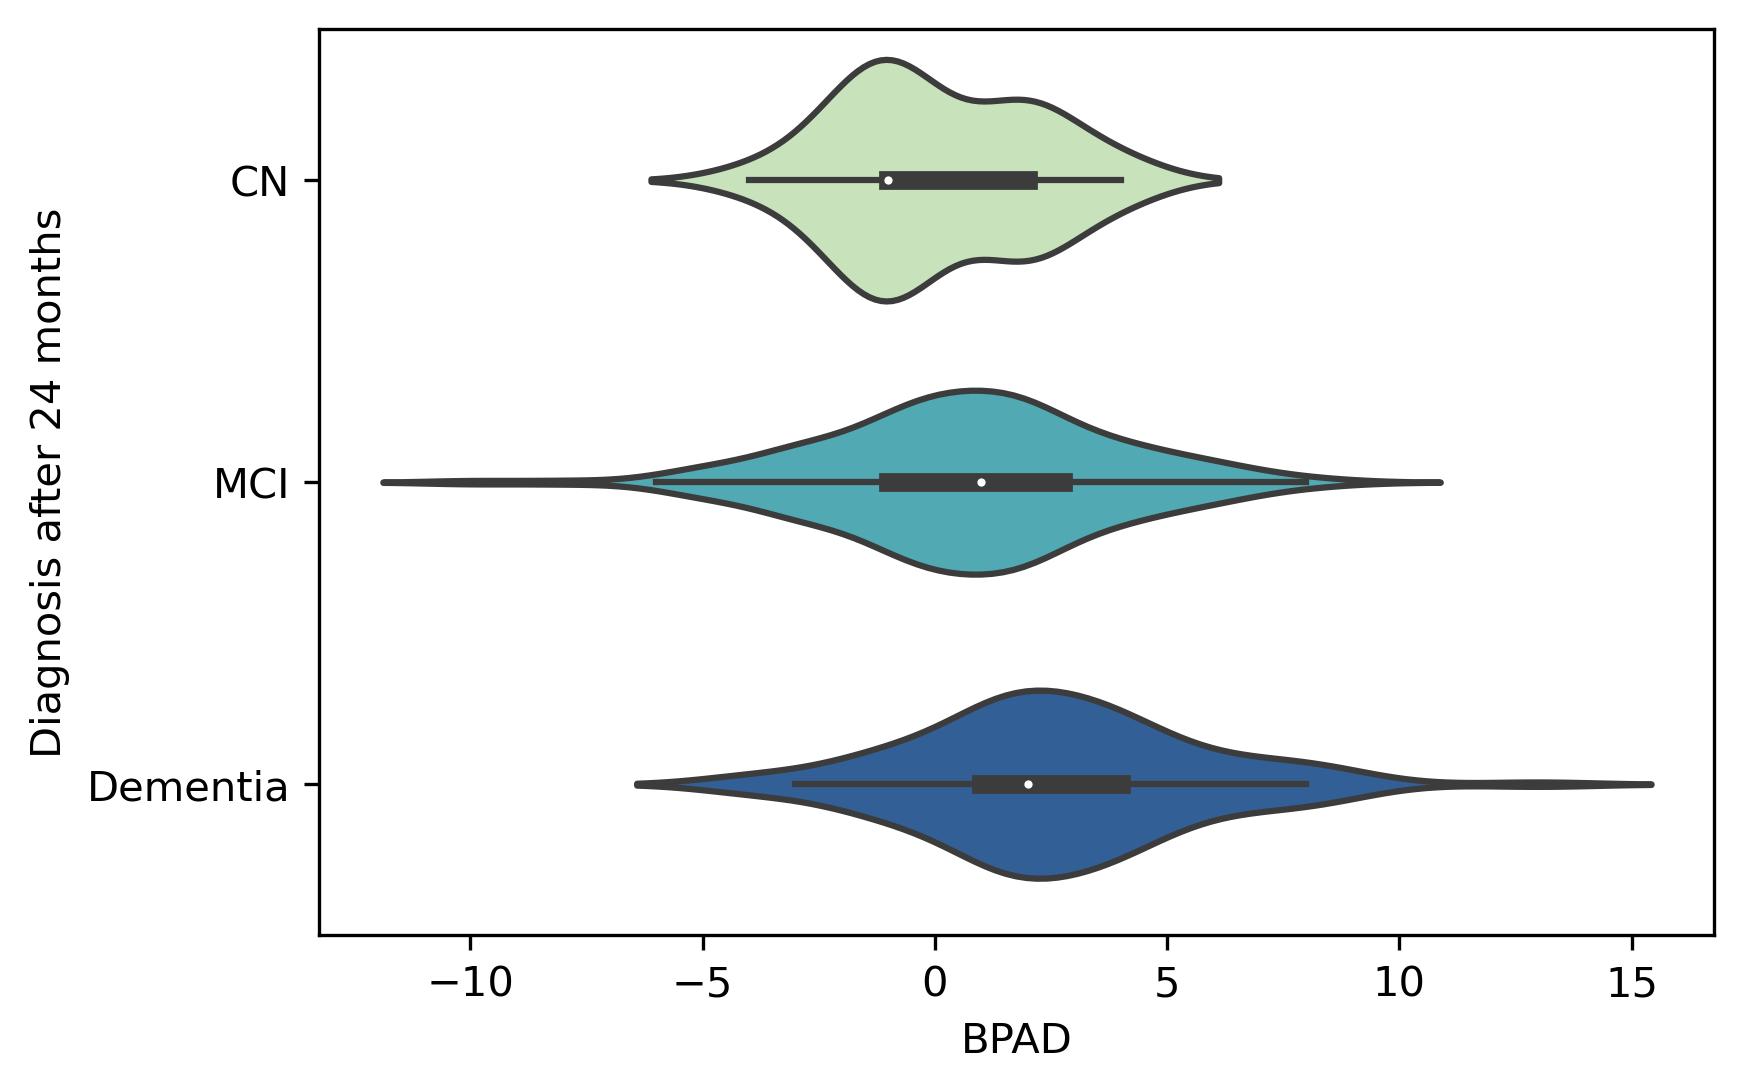
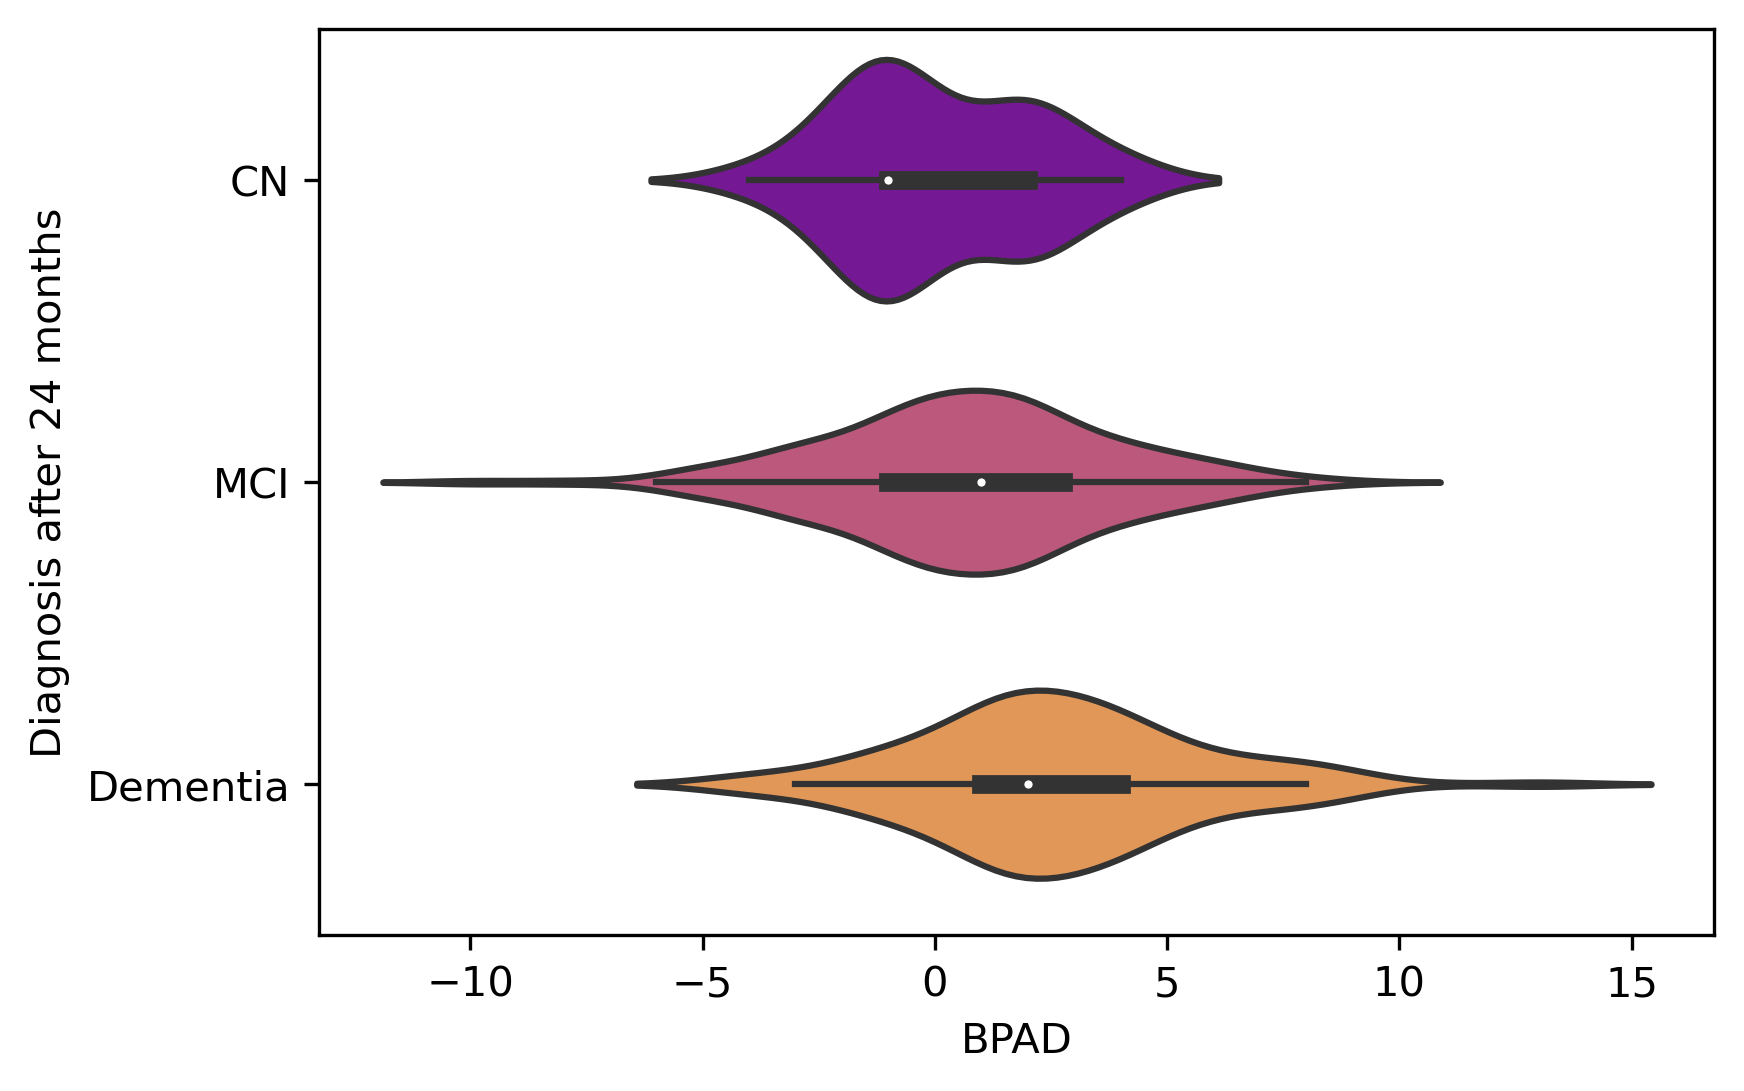
new colors for violin plots

Changed region(s): [[0.4025, 0.6233, 0.805, 0.8103], [0.3716, 0.3428, 0.7431, 0.5298], [0.4025, 0.0623, 0.6812, 0.2805]]

diff --git a/src/neuropsychology_correlations.py b/src/neuropsychology_correlations.py
@@ -188,7 +188,7 @@ def conversion_analysis(database, modality):
             database, modality, database))
     df_pred['BPAD'] = np.round(df_pred['Prediction'] - df_pred['Age'], 0)
     merge = dx_merge(df_pred, df_dx)
-    sns.violinplot(x='BPAD', y='DX', data=merge, palette='YlGnBu',
+    sns.violinplot(x='BPAD', y='DX', data=merge, palette='plasma',
                    order=["CN", "MCI", "Dementia"],
                    hue_order=["CN", "MCI", "Dementia"])
     plt.ylabel("Diagnosis after 24 months")
